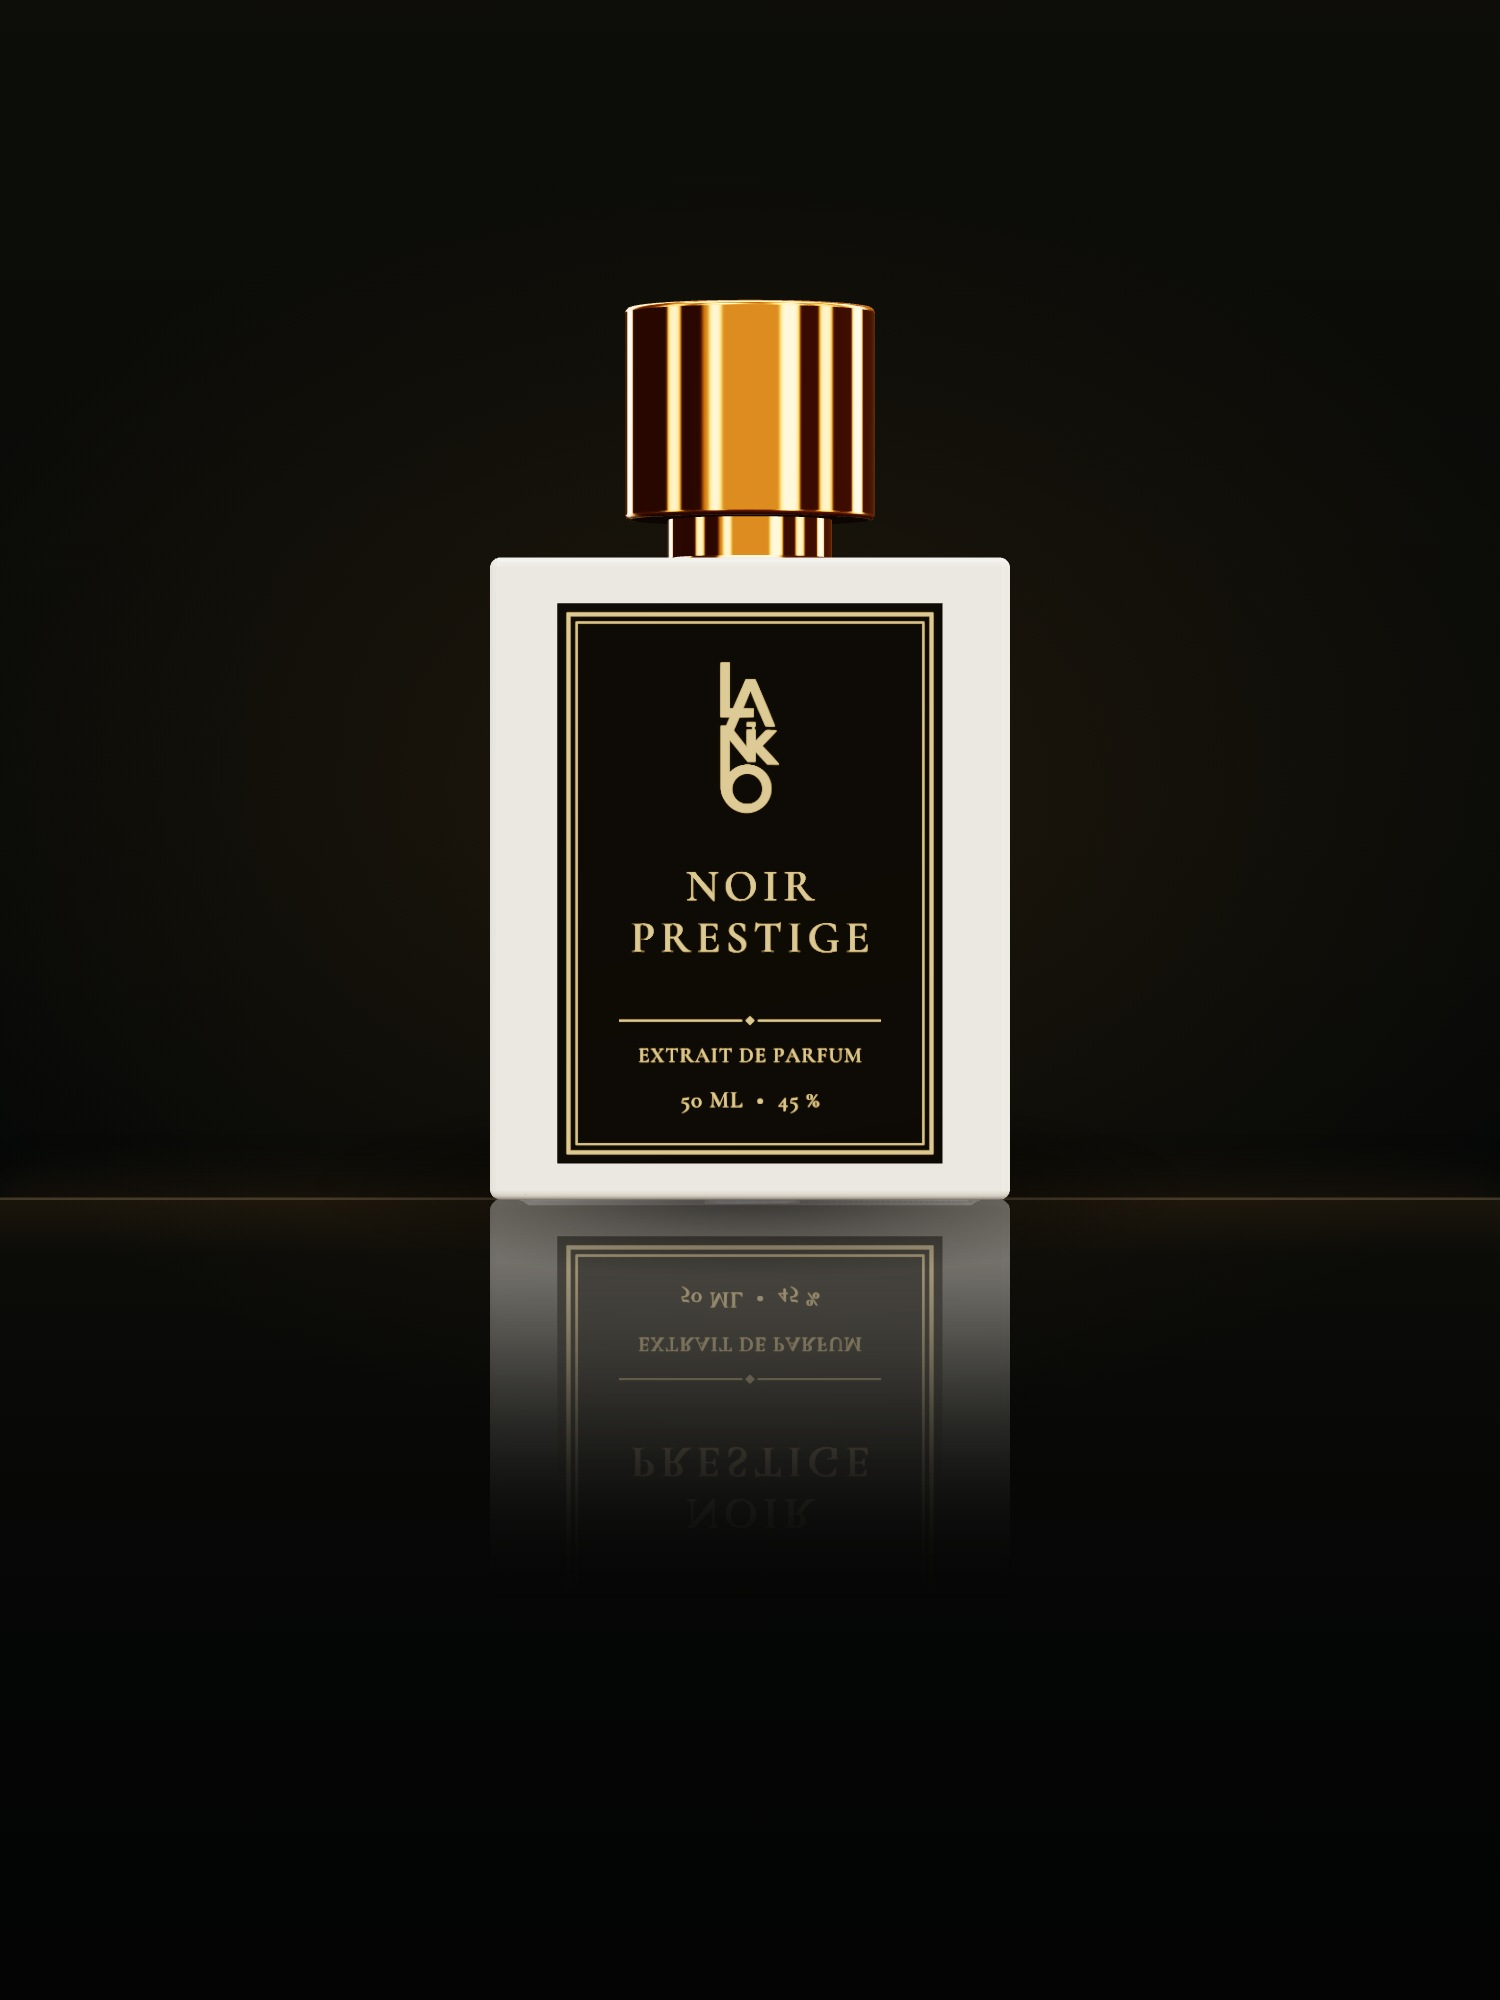
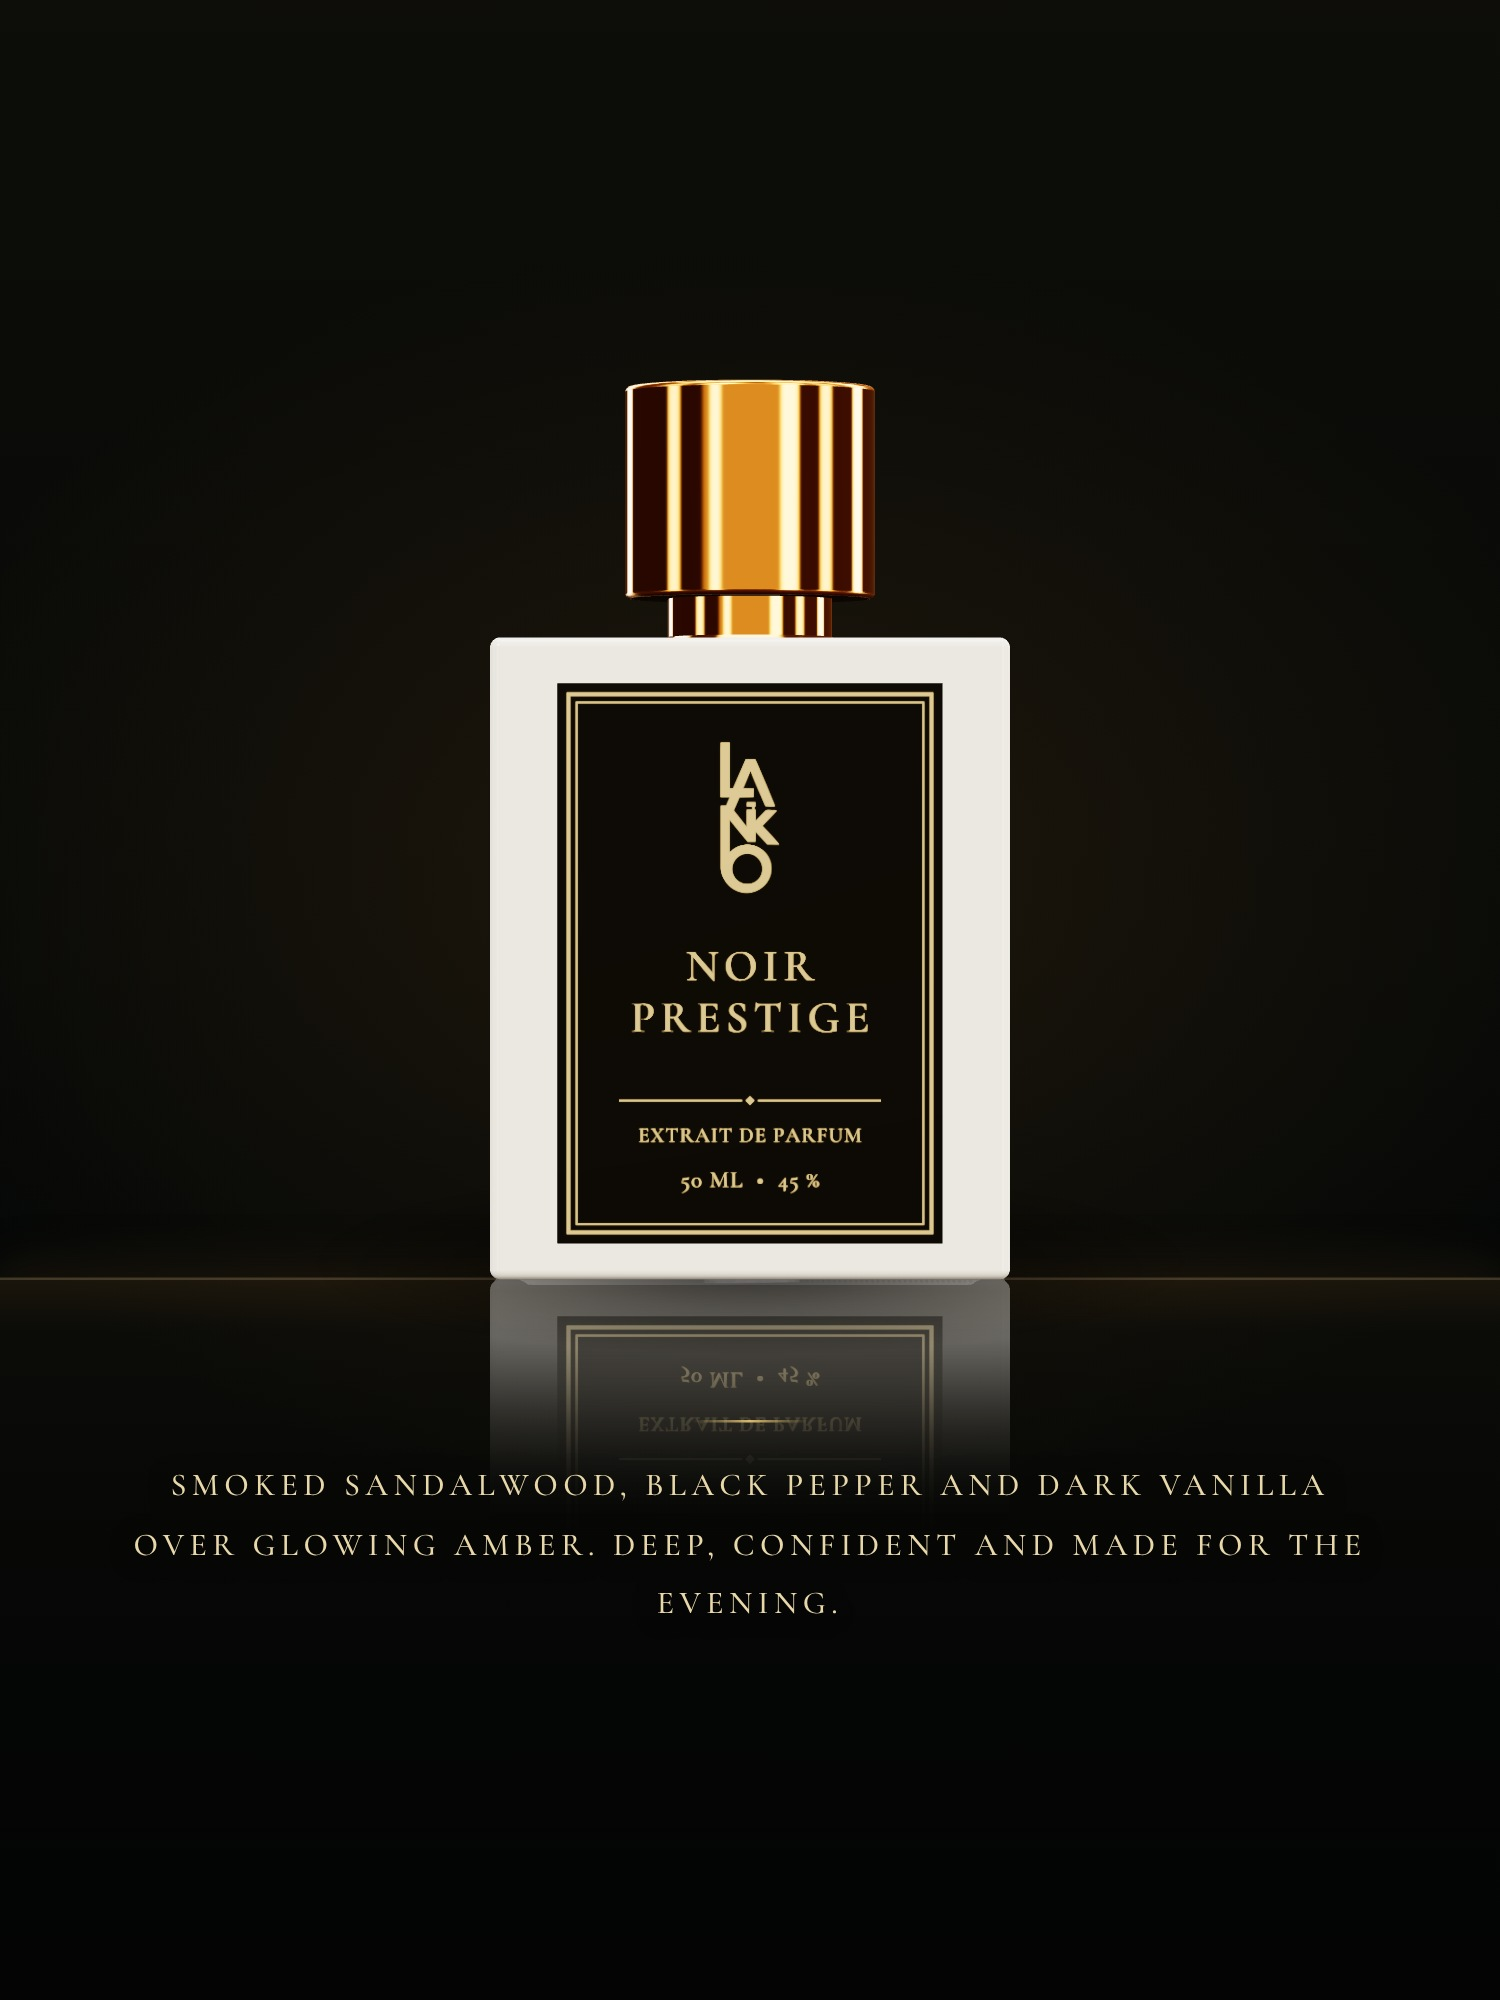
Description in tracked champagne-gold capitals (Cormorant), bottle lower with shorter reflection so the text sits right under it, pictures re-rendered
Claude-Session: https://claude.ai/code/session_01UcqBSTGGdYJCsLfUZ3upKN

diff --git a/style.css b/style.css
@@ -149,23 +149,23 @@ main { padding: 16px; max-width: 1000px; margin: 0 auto; }
 .viewer-foot .price { font-size: 1.2rem; text-shadow: 0 1px 6px rgba(0,0,0,.7); }
 .viewer-foot .primary { width: auto; padding: 12px 22px; background: #d9b96a; color: #1d1d1b; border-color: #d9b96a; }
 
-/* description printed on the picture, under the bottle */
+/* description printed on the picture, under the bottle: small tracked capitals in champagne gold */
 .media { container-type: inline-size; }
 .pic-desc {
-  position: absolute; left: 7%; right: 7%; top: 77%; text-align: center; pointer-events: none;
-  font-family: var(--serif); font-style: italic; font-weight: 500; color: #eadfc6;
-  font-size: 4.9cqw; line-height: 1.28; letter-spacing: .01em; text-shadow: 0 1px 8px rgba(0,0,0,.85);
+  position: absolute; left: 9%; right: 9%; top: 75%; text-align: center; pointer-events: none;
+  font-family: var(--serif); font-weight: 500; text-transform: uppercase; color: #e8d7a9;
+  font-size: 3.2cqw; line-height: 1.85; letter-spacing: .17em; text-shadow: 0 1px 10px rgba(0,0,0,.9);
 }
-@supports not (font-size: 1cqw) { .pic-desc { font-size: 1rem; } }
+@supports not (font-size: 1cqw) { .pic-desc { font-size: .7rem; } }
 
 /* the same text in the 3D view: a gold rule draws itself, then the words rise in one after the other */
 .viewer-desc {
-  position: absolute; left: 0; right: 0; top: 74%; z-index: 2; padding: 0 9%; text-align: center; pointer-events: none;
+  position: absolute; left: 0; right: 0; top: 71%; z-index: 2; padding: 0 8%; text-align: center; pointer-events: none;
   transition: opacity .5s ease;
 }
 .viewer-desc.zoomed { opacity: 0; }
-.viewer-desc p { margin: 0; font-family: var(--serif); font-style: italic; font-weight: 500; font-size: 1.12rem; line-height: 1.35; color: #eadfc6; text-shadow: 0 1px 8px rgba(0,0,0,.85); }
-.vd-rule { display: block; width: 54px; height: 1px; margin: 0 auto 12px; background: linear-gradient(90deg, transparent, #d9b96a, transparent); transform: scaleX(0); animation: vd-rule .9s cubic-bezier(.2,.7,.2,1) 1.1s forwards; }
+.viewer-desc p { margin: 0; font-family: var(--serif); font-weight: 500; text-transform: uppercase; font-size: .8rem; line-height: 1.85; letter-spacing: .17em; color: #e8d7a9; text-shadow: 0 1px 10px rgba(0,0,0,.9); }
+.vd-rule { display: block; width: 46px; height: 1px; margin: 0 auto 14px; background: linear-gradient(90deg, transparent, #d9b96a, transparent); transform: scaleX(0); animation: vd-rule .9s cubic-bezier(.2,.7,.2,1) 1.1s forwards; }
 .vd-w { display: inline-block; opacity: 0; transform: translateY(10px); filter: blur(5px); animation: vd-word .8s cubic-bezier(.2,.7,.2,1) calc(1.5s + var(--i) * 70ms) forwards; }
 @keyframes vd-rule { to { transform: scaleX(1); } }
 @keyframes vd-word { to { opacity: 1; transform: none; filter: blur(0); } }

diff --git a/viewer.js b/viewer.js
@@ -359,7 +359,7 @@ export function createBottleViewer(container, product) {
   // Where the bottle stands: just the perfume on a plain studio backdrop. (ar = width/height of the area the bottle is
   // laid out in, cx = centre, bw = bottle width as a fraction of that area, bottom = the floor line as a fraction of the height)
   // the bottle is shown fairly small in the viewer; the product pictures are rendered with a bigger frame (window.LANIKO_FRAME, see tools/render_photos.py)
-  const B = { ar: 0.62, cx: 0.5, bw: 0.42, bottom: 0.60, ...(window.LANIKO_FRAME || {}) };
+  const B = { ar: 0.62, cx: 0.5, bw: 0.42, bottom: 0.64, ...(window.LANIKO_FRAME || {}) };
   const reduceMotion = window.matchMedia && window.matchMedia("(prefers-reduced-motion: reduce)").matches;
   let disposed = false, failed = false;
 
@@ -409,7 +409,7 @@ export function createBottleViewer(container, product) {
   rig.add(holder);
   let reflRoot = null, blob = null, MID = 1;
   const mirrorY = new THREE.Matrix4().makeScale(1, -1, 1);
-  const reflU = { uStrength: { value: 0.5 }, uReach: { value: 1.35 }, uFloorY: { value: 0 }, uZoom: { value: 1 } };
+  const reflU = { uStrength: { value: 0.5 }, uReach: { value: 0.85 }, uFloorY: { value: 0 }, uZoom: { value: 1 } };
   let envTexture = null, pmrem = null, envScene = null;
   let built = false, plateReady = true, started = false, shown = false;
   let W = 1, H = 1, kPx = 100, baseY = 0, anchorX = 0, bgZoomShown = 1;

diff --git a/index.html b/index.html
@@ -11,7 +11,7 @@
   <link rel="icon" href="/favicon.svg" type="image/svg+xml">
   <link rel="preconnect" href="https://fonts.googleapis.com">
   <link rel="preconnect" href="https://fonts.gstatic.com" crossorigin>
-  <link rel="stylesheet" href="https://fonts.googleapis.com/css2?family=Cormorant+Garamond:wght@500;600&display=swap">
+  <link rel="stylesheet" href="https://fonts.googleapis.com/css2?family=Cormorant+Garamond:wght@400;500;600&display=swap">
   <link rel="stylesheet" href="/style.css">
   <script type="importmap">
   {
